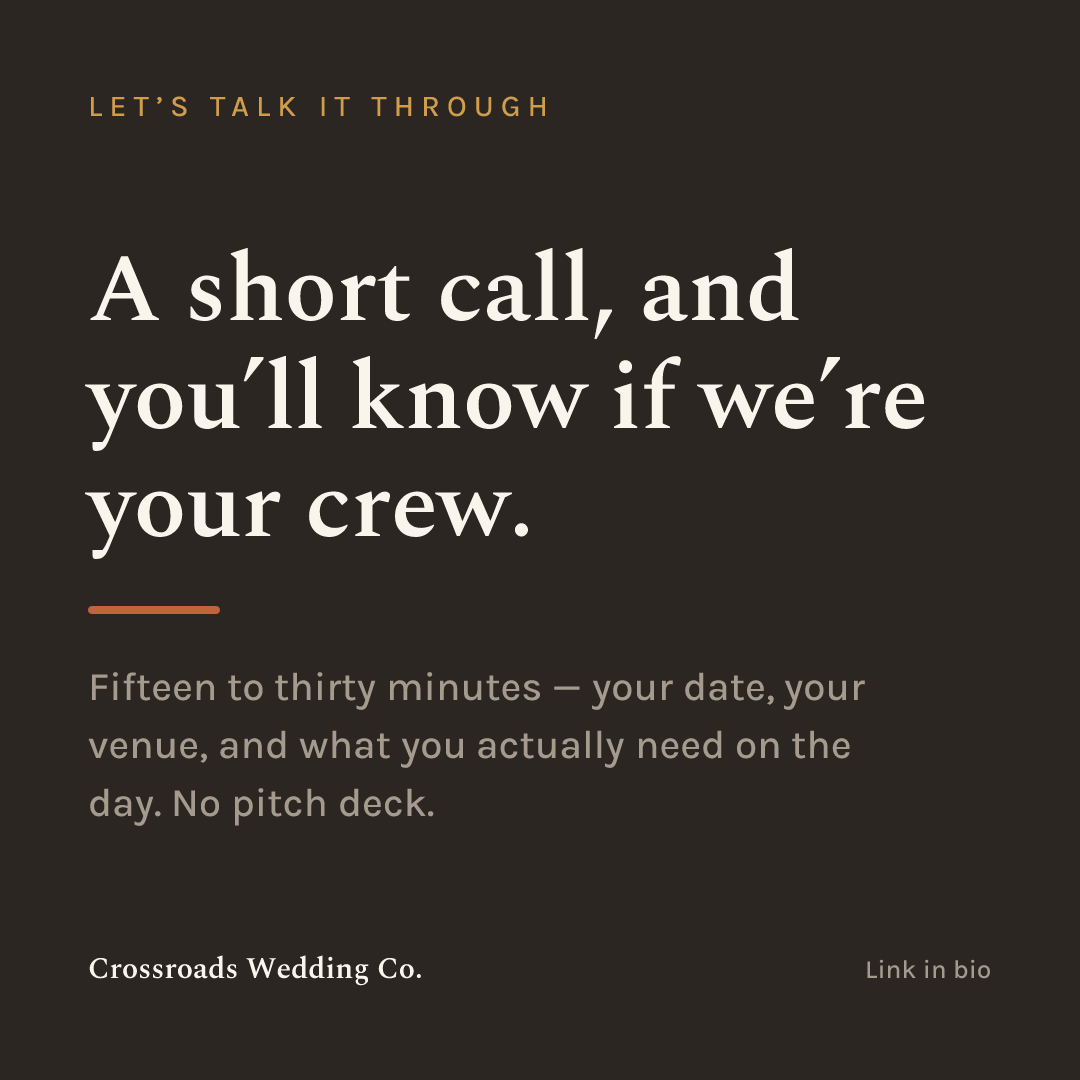
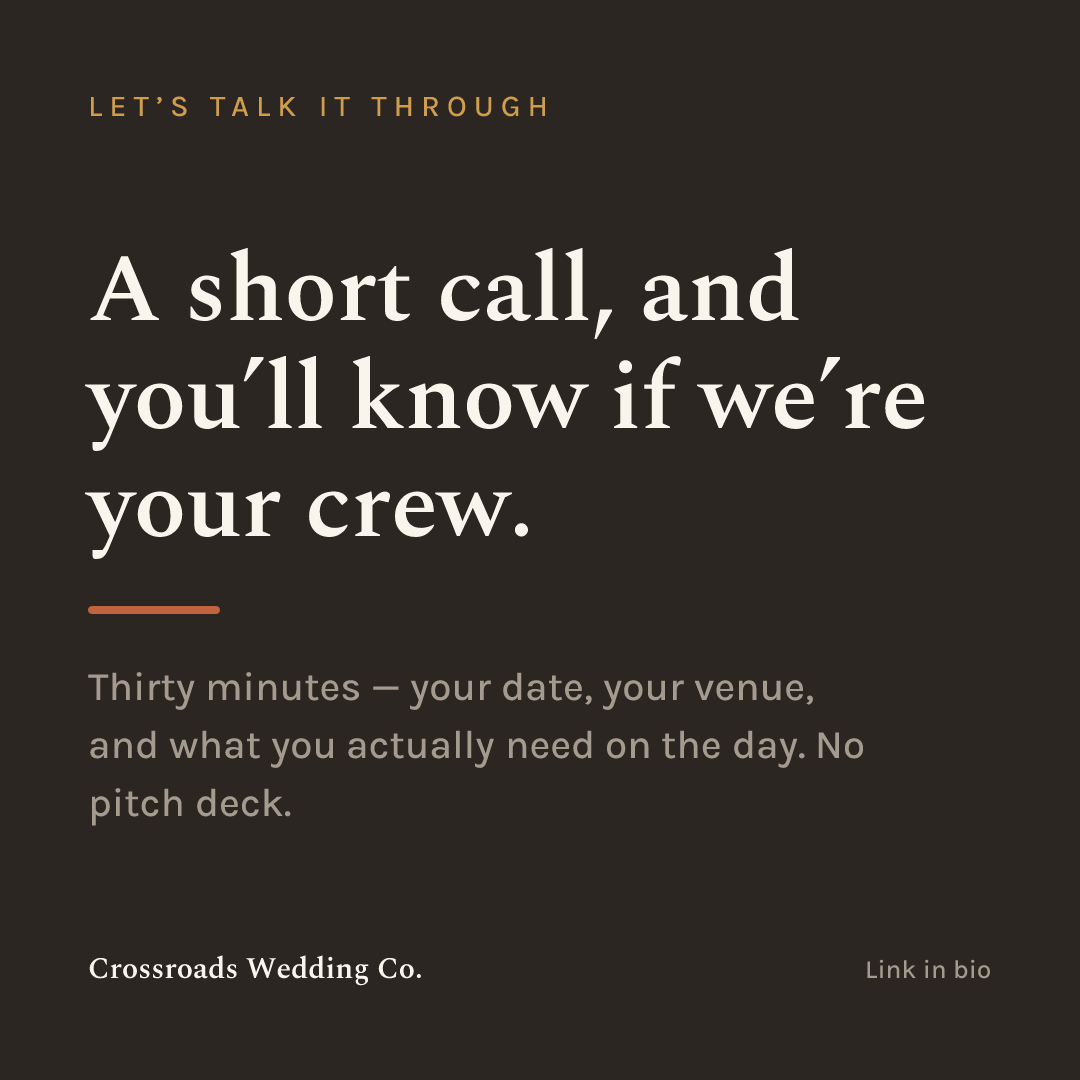
Make the intro call 30 minutes everywhere
The booking page will be a 30-minute slot, so the site and the Instagram
copy shouldn't keep promising "fifteen to thirty" — a booking page that
contradicts the marketing costs more than the wider range gains.

Changed INTRO_CALL_LENGTH, the caption for post 4, and the text baked
into 04-book-a-call.png. The README already said 30.

Changed region(s): [[0.0611, 0.6111, 0.7944, 0.7028], [0.0917, 0.7333, 0.3972, 0.7639]]

diff --git a/lib/site.ts b/lib/site.ts
@@ -18,7 +18,7 @@ export const CONTACT_EMAIL = "hello@crossroadsweddingco.com";
 
 export const DJ_DAY_RATE_USD = 1000;
 
-export const INTRO_CALL_LENGTH = "15–30 minute";
+export const INTRO_CALL_LENGTH = "30-minute";
 
 // Booking page for the intro call. Set NEXT_PUBLIC_BOOKING_URL in Vercel to
 // the share link from a Google Calendar appointment schedule (free tier: one

diff --git a/content/instagram/posts.md b/content/instagram/posts.md
@@ -80,7 +80,7 @@ drifted somewhere else, tell me and I'll re-cut them.
 
 > A short call, and you'll know if we're your crew.
 >
-> Fifteen to thirty minutes. You tell us the date, the venue (or the backyard),
+> Thirty minutes. You tell us the date, the venue (or the backyard),
 > and roughly what you're picturing. We tell you whether we're free, what the
 > day would look like, and what bar service or a live acoustic set would run if
 > you want either.
